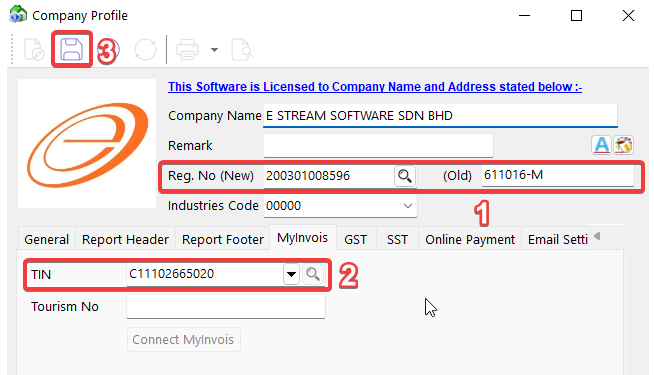
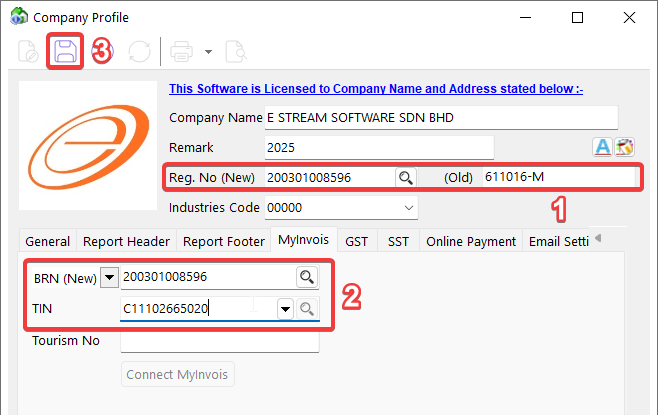
fix: update onboarding guide

diff --git a/docs/usage/myinvois/onboarding.md b/docs/usage/myinvois/onboarding.md
@@ -10,8 +10,6 @@ To streamline the e-invoice submission through SQL Account, you will need to go 
 
 ## Company Profile Setup
 
-### MyInvois Portal Linking
-
 1. Go to **File** > **Company Profile**.
    1. Make sure your company registration number (BRN) is correctly filled in. (click on the magnifying glass to utilize our auto BRN lookup feature)
    2. Make sure the TIN number has been filled in correctly.
@@ -23,68 +21,165 @@ To streamline the e-invoice submission through SQL Account, you will need to go 
 
     ![company-profile-myinvois-button](../../../static/img/myinvois/onboarding/company-profile-myinvois-2.png)
 
-3. Login to MyInvois Portal on the right side.
+## MyInvois Integration
 
-    :::warning[IMPORTANT]
-    To test E-Invoice, ensure the **I want to try on Sandbox Environment first** checkbox is checked. This lets you use the LHDN Preprod API for testing.
+1. The onboarding process consists of 3 steps:
+    1. [E-Invoice Start Date](#e-invoice-start-date)
+    2. [Production Credentials & Intermediary](#production-credentials--intermediary)
+    3. [Sandbox Credentials & Intermediary](#sandbox-credentials--intermediary)
 
-    When you're ready to switch to the production environment, return to this page, click **Go Live**, and follow the steps again.
-    :::
-
-    ![company-profile-myinvois-sandbox](../../../static/img/myinvois/onboarding/company-profile-myinvois-4.png)
-
-4. Go to **MyInvois**
-
-    ![company-profile-connect-2](../../../static/img/myinvois/onboarding/company-profile-connect-2.png)
-
-5. Click on top right, and go to Taxpayer Profile.
-
-    ![company-profile-connect-3](../../../static/img/myinvois/onboarding/company-profile-connect-3.png)
-
-6. Scroll to the bottom and click on **Add Intermediary**.
-
-    ![myinvois-portal-3](../../../static/img/myinvois/onboarding/myinvois-portal-3.png)
-
-7. Fill in the **TIN**, **BRN**, and **Name** using the provided info on the left.
-
-    ![myinvois-portal-6](../../../static/img/myinvois/onboarding/myinvois-portal-6.png)
-
-8. Scroll down and click **Continue**.
-
-    ![myinvois-portal-7](../../../static/img/myinvois/onboarding/myinvois-portal-7.png)
-
-9. Setup the **Representation From**, **Representantion To** (leave empty to avoid expiry), and make sure all permissions has been enabled.
-
-    ![myinvois-portal-8](../../../static/img/myinvois/onboarding/myinvois-portal-8.png)
-
-10. Click on **Test Intermediary** and you shall see all permissions can be retrieved successfully.
-
-    ![myinvois-portal-9](../../../static/img/myinvois/onboarding/myinvois-portal-9.png)
-
-11. Click on **Register ERP**.
-
-    ![myinvois-portal-2](../../../static/img/myinvois/onboarding/myinvois-portal-2.png)
-
-12. Fill in the **ERP Name** & **Client Secret expiration** as below:
-
-    ![myinvois-portal-4](../../../static/img/myinvois/onboarding/myinvois-portal-4.png)
-
-13. Click on the copy button in sequence as shown below and you shall see the client id & secrets are being automatically filled on the left. Click on **Register ERP** and you're done!
-
-    ![myinvois-portal-5](../../../static/img/myinvois/onboarding/myinvois-portal-5.png)
-
-### E-Invoice Validation Setup
-
-:::info
-Skip this section if you already setup your Sandbox credentials before.
+:::danger[Note]
+You can skip 1 & 2 entirely and setup **[Sandbox credentials & Intermediary](#sandbox-credentials--intermediary)** alone for **Testing/Training** purposes.
 :::
 
-After you went live, SQL Account now allows you to validate your E-Invoice through LHDN Sandbox API first. To enjoy this feature, setup your **Sandbox credential** after you had successfully connected to **MyInvois Production**.
+![company-profile-myinvois-sandbox](../../../static/img/myinvois/onboarding/company-profile-myinvois-connect.png)
 
-1. Go to **File** > **Company Profile** > **MyInvois** > **Connect MyInvois**.
+### MyInvois Environment (Production/Sandbox)
 
-2. Click on **Sandbox** tab.
+**Production**: All your submitted E-Invoices will be acknowledged by LHDN directly.
 
-    ![myinvois-sandbox-validation](../../../static/img/myinvois/onboarding/sandbox-validation-setup.png)
+**Sandbox**: Information sent to the Sandbox (testing environment) will be solely for testing purposes and no penalty will be imposed.
 
-3. Repeat the steps in [previous section](#myinvois-portal-linking) to add **Intermediary** & **ERP** in MyInvois Sandbox environment.
+Follow the table below to setup your desired Environment:
+
+|Start Date| Production Credentials | Sandbox Credentials| Your Environment|
+|-|-|-|-|
+|Current Date (e.g. Today)|❌|✅|Sandbox|
+|Future Date (e.g. 1/7/2025)|❌|✅|Sandbox|
+|Current Date (e.g. Today)|✅|❌|Production|
+|Future Date (e.g. 1/7/2025)|✅|❌|Production after 1/7/2025|
+|Current Date (e.g. Today)|✅|✅|Production with Test Validation enabled|
+|Future Date (e.g. 1/7/2025)|✅|✅|Sandbox first, Production after 1/7/2025|
+
+### E-Invoice Start Date
+
+Purpose of the **E-Invoice Start Date**:
+
+- Manage the ability to submit e-invoices in the **Production** environment. (You will only be able to start submitting e-invoices **after** the selected start date.)
+- If you begin with the **Sandbox (Testing)** environment and have completed setting up your **Production** credentials, you will be prompted to activate your Production environment 7 days before the chosen start date.
+
+    ![myinvois-start-date](../../../static/img/myinvois/onboarding/myinvois-start-date.png)
+
+:::info[Note]
+The E-Invoice Start Date is not limited to the three provided options. You can set it to any date, such as **1/6/2025**, as per your preference.
+:::
+
+### Production Credentials & Intermediary
+
+:::info[Note]
+You may skip this part if you only intend to try out e-invoice features using demo database.
+:::
+
+1. Login to MyInvois Portal on the right side.
+
+    ![myinvois-production-login](../../../static/img/myinvois/onboarding/myinvois-production-login.png)
+
+2. Click on **MyInvois**.
+
+    ![myinvois-production-mytax](../../../static/img/myinvois/onboarding/myinvois-production-mytax.png)
+
+3. Click on top right, and click on **View Taxpayer Profile**.
+
+    ![myinvois-production-view-taxpayer-profile](../../../static/img/myinvois/onboarding/myinvois-production-view-taxpayer-profile.png)
+
+4. Scroll to the bottom and click on **Add Intermediary**.
+
+    ![myinvois-production-add-intermediary-1](../../../static/img/myinvois/onboarding/myinvois-production-add-intermediary-1.png)
+
+5. Fill in the TIN, BRN, and Name using the provided info on the left. Enter the captcha and click on **Search** then **Continue**.
+
+    :::info[Help]
+    If you are unable to see the **Continue** button, try either one of these:
+
+    1. hold CTRL then hit "-" (minus) key multiple times to zoom out
+    2. hold CTRL then scroll down to zoom out
+    3. maximize the onboarding window
+
+    :::
+
+    ![myinvois-production-add-intermediary-2](../../../static/img/myinvois/onboarding/myinvois-production-add-intermediary-2.png)
+
+6. Setup the **Representation From**, **Representantion To** (leave empty to avoid expiry), and make sure all permissions has been enabled. Click on **Add Intermediary** to finish.
+
+    ![myinvois-production-add-intermediary-3](../../../static/img/myinvois/onboarding/myinvois-production-add-intermediary-3.png)
+
+7. Click on **Test Intermediary** and you shall see all permissions can be retrieved successfully.
+
+    ![myinvois-production-add-intermediary-4](../../../static/img/myinvois/onboarding/myinvois-production-add-intermediary-4.png)
+
+8. Click on **Register ERP**.
+
+    ![myinvois-production-add-erp-1](../../../static/img/myinvois/onboarding/myinvois-production-add-erp-1.png)
+
+9. Fill in the **ERP Name** & **Client Secret expiration** as below:
+
+    ![myinvois-production-add-erp-2](../../../static/img/myinvois/onboarding/myinvois-production-add-erp-2.png)
+
+10. Click on the copy button in sequence as shown below and you shall see the client id & secrets are being automatically filled on the left. Tick the **checkbox** & click on **Done**.
+
+    ![myinvois-production-add-erp-3](../../../static/img/myinvois/onboarding/myinvois-production-add-erp-3.png)
+
+11. If you do not wish to utilize the Test Validation using sandbox feature, click on **Register ERP** and you're done! You can now start submitting E-Invoice in **Production** mode.
+
+### Sandbox Credentials & Intermediary
+
+:::info[Note]
+You will need to setup Sandbox Credentials if you wished to:
+
+1. Utilize **Test E-Invoice Validation** Feature.
+2. Training / Testing.
+
+Follow this [guide](https://preprod-mytax.hasil.gov.my/assets/pdf/usermanualweb(en).pdf) to register for Preprod (Sandbox) MyInvois Portal.
+
+:::
+
+1. Click on the empty Client ID input and you will find see that the right panel now switched to **Sandbox MyInvois Portal**. Proceed to login.
+
+    ![myinvois-sandbox-login](../../../static/img/myinvois/onboarding/myinvois-sandbox-login.png)
+
+2. Click on **MyInvois9**.
+
+    ![myinvois-sandbox-mytax](../../../static/img/myinvois/onboarding/myinvois-sandbox-mytax.png)
+
+3. Click on top right, and click on **View Taxpayer Profile**.
+
+    ![myinvois-sandbox-view-taxpayer-profile](../../../static/img/myinvois/onboarding/myinvois-sandbox-view-taxpayer-profile.png)
+
+4. Scroll to the bottom and click on **Add Intermediary**.
+
+    ![myinvois-sandbox-add-intermediary-1](../../../static/img/myinvois/onboarding/myinvois-sandbox-add-intermediary-1.png)
+
+5. Fill in the TIN, BRN, and Name using the provided info on the left. Enter the captcha and click on **Search** then **Continue**.
+
+    :::info[Help]
+    If you are unable to see the **Continue** button, try either one of these:
+
+    1. hold CTRL then hit "-" (minus) key multiple times to zoom out
+    2. hold CTRL then scroll down to zoom out
+    3. maximize the onboarding window
+
+    :::
+
+    ![myinvois-sandbox-add-intermediary-2](../../../static/img/myinvois/onboarding/myinvois-sandbox-add-intermediary-2.png)
+
+6. Setup the **Representation From**, **Representantion To** (leave empty to avoid expiry), and make sure all permissions has been enabled. Click on **Add Intermediary** to finish.
+
+    ![myinvois-sandbox-add-intermediary-3](../../../static/img/myinvois/onboarding/myinvois-sandbox-add-intermediary-3.png)
+
+7. Click on **Test Intermediary** and you shall see all permissions can be retrieved successfully and remained valid (**green**).
+
+    ![myinvois-sandbox-add-intermediary-4](../../../static/img/myinvois/onboarding/myinvois-sandbox-add-intermediary-4.png)
+
+8. Click on **Register ERP**.
+
+    ![myinvois-sandbox-add-erp-1](../../../static/img/myinvois/onboarding/myinvois-sandbox-add-erp-1.png)
+
+9. Fill in the **ERP Name** & **Client Secret expiration** as below:
+
+    ![myinvois-sandbox-add-erp-2](../../../static/img/myinvois/onboarding/myinvois-sandbox-add-erp-2.png)
+
+10. Click on the copy button in sequence as shown below and you shall see the client id & secrets are being automatically filled on the left. Tick the **checkbox** & click on **Done**.
+
+    ![myinvois-sandbox-add-erp-3](../../../static/img/myinvois/onboarding/myinvois-sandbox-add-erp-3.png)
+
+11. Click on **Register ERP** and you're done.
